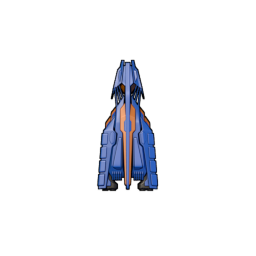
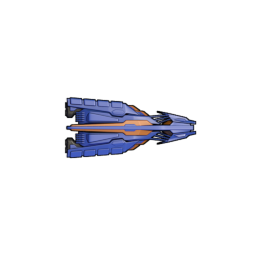
Fixed #15
Yup, it's caused by me adding a 90 Degree (or PI /2) radian to the target angle of the ship.

It's  an easy fix, just pre rotate the ship beforehand. Had to go back and fix a lot of other code to ensure the ship moves the right way.

Changed region(s): [[0.25, 0.2188, 0.7812, 0.75]]

diff --git a/game.js b/game.js
@@ -56,6 +56,13 @@ const state = {
 
 var gameState;
 
+const infoMode = {
+    Debug: 'Debug',
+    Help: 'Help',
+    Physics: 'Physics',
+    Particles: 'Particles'
+}
+
 function preload() {
     this.load.image('player', 'ships/player-2.png');
     this.load.image('enemy1', 'ships/empire-d.png');
@@ -245,6 +252,8 @@ function create() {
     infoText = this.add.text(10, 30, ""); infoText.setScrollFactor(0);
     helpText = this.add.text(10, 10, "Press F1 to toggle help"); helpText.setScrollFactor(0);
     helpText.visible = false; // Don't show the help text in the menu.
+
+
     pauseText = this.add.text(400, 400, "Paused - Press escape to unpause"); pauseText.setScrollFactor(0);
 
     scoreText = this.add.text(750, 10, ""); scoreText.setScrollFactor(0);
@@ -254,6 +263,8 @@ function create() {
 
 
     // Toggle the help for controls and debug. Also control music
+    this.input.keyboard.on('keyup-F1', function (event) { infoText.visible = !infoText.visible; })
+    this.input.keyboard.on('keyup-F1', function (event) { infoText.visible = !infoText.visible; })
     this.input.keyboard.on('keyup-F1', function (event) { infoText.visible = !infoText.visible; })
     this.input.keyboard.on('keyup-ONE', function (event) { if (!menuMusic.isPlaying) { this.game.sound.stopAll(); menuMusic.play(); } })
     this.input.keyboard.on('keyup-TWO', function (event) { if (!battleMusic.isPlaying) { this.game.sound.stopAll(); battleMusic.play(); } })
@@ -278,9 +289,41 @@ function create() {
 
     });
 
+     this.input.keyboard.on('keyup-SPACE', function (event) {
+
+
+
+    });
+     this.input.keyboard.on('keyup-SPACE', function (event) {
+
+
+
+    });
+     this.input.keyboard.on('keyup-SPACE', function (event) {
+
+
+
+    });
+     this.input.keyboard.on('keyup-SPACE', function (event) {
+
+
+
+    });
+
+      // Game design controls.
+        if (keys.UP.isDown) { Ship.BIG_THRUST += 100; }
+        if (keys.DOWN.isDown) { Ship.BIG_THRUST -= 100; }
+        if (keys.E.isDown) { Ship.LITTLE_THRUST += 0.1;; }
+        if (keys.Q.isDown) { Ship.LITTLE_THRUST -= 0.1; }
+
+
 
     // Start game
     gameState = state.Menu;
+
+    // Start in game
+    resumeGame();
+    
 
 
     Ship.playerShip.score = 0;
@@ -332,12 +375,7 @@ function update() {
         }
 
 
-        // Game design controls.
-        if (keys.UP.isDown) { Ship.BIG_THRUST += 100; }
-        if (keys.DOWN.isDown) { Ship.BIG_THRUST -= 100; }
-        if (keys.E.isDown) { Ship.LITTLE_THRUST += 0.1;; }
-        if (keys.Q.isDown) { Ship.LITTLE_THRUST -= 0.1; }
-
+      
 
         let cursorX = game.input.mousePointer.x;
         let cursorY = game.input.mousePointer.y;
@@ -347,7 +385,7 @@ function update() {
 
 
         // 2. Add half a radian to rotate by 90 degrees (so you face the right direction)
-        targetAngle += Math.PI / 2;
+        //targetAngle += Math.PI / 2;
 
         // 3. Rotate smoothly to that angle
         let turnSpeed = 0.02;

diff --git a/ship.js b/ship.js
@@ -113,12 +113,12 @@ class Ship {
             let speed = -400;
             // if(this.enemy) {speed = -200;} // Gimp the enemies, to make them easier to dodge
 
-
-            let v = new Phaser.Math.Vector2(0, speed);
-            v.rotate(Phaser.Math.DegToRad(this.sprite.angle));
+            // Use vectors to set the path of the bullet, use the X axis to align with the player ship.
+            let v = new Phaser.Math.Vector2(-speed,0);
+            v.rotate(this.sprite.rotation);
 
             this.bullet[this.nextBullet].setVelocity(v.x, v.y);
-            this.bullet[this.nextBullet].angle = this.sprite.angle;
+            this.bullet[this.nextBullet].rotation = this.sprite.rotation;
 
             if (this.nextBullet < this.bullet.length - 1) { this.nextBullet++; } else { this.nextBullet = 0; }
 
@@ -128,28 +128,28 @@ class Ship {
 
     }
     left() {
-        let v = new Phaser.Math.Vector2(-Ship.BIG_THRUST, 0);
-        v.rotate(Phaser.Math.DegToRad(this.sprite.angle));
-
-        this.tX += v.x;
-        this.tY += v.y;
-    }
-    right() {
-        let v = new Phaser.Math.Vector2(Ship.BIG_THRUST, 0);
-        v.rotate(Phaser.Math.DegToRad(this.sprite.angle));
-
-        this.tX += v.x;
-        this.tY += v.y;
-    }
-    forward() {
         let v = new Phaser.Math.Vector2(0, -Ship.BIG_THRUST);
         v.rotate(Phaser.Math.DegToRad(this.sprite.angle));
 
         this.tX += v.x;
         this.tY += v.y;
     }
-    back() {
+    right() {
         let v = new Phaser.Math.Vector2(0, Ship.BIG_THRUST);
+        v.rotate(Phaser.Math.DegToRad(this.sprite.angle));
+
+        this.tX += v.x;
+        this.tY += v.y;
+    }
+    forward() {
+        let v = new Phaser.Math.Vector2(Ship.BIG_THRUST, 0);
+        v.rotate(Phaser.Math.DegToRad(this.sprite.angle));
+
+        this.tX += v.x;
+        this.tY += v.y;
+    }
+    back() {
+        let v = new Phaser.Math.Vector2(-Ship.BIG_THRUST, 0);
         v.rotate(Phaser.Math.DegToRad(this.sprite.angle));
 
         this.tX += v.x;
